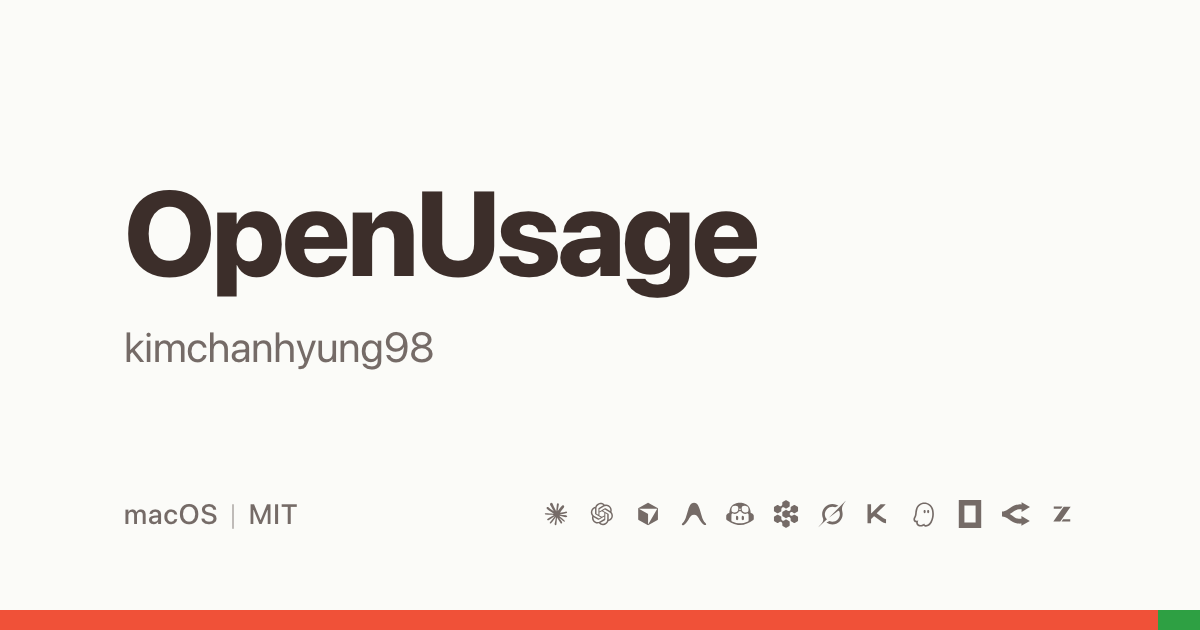
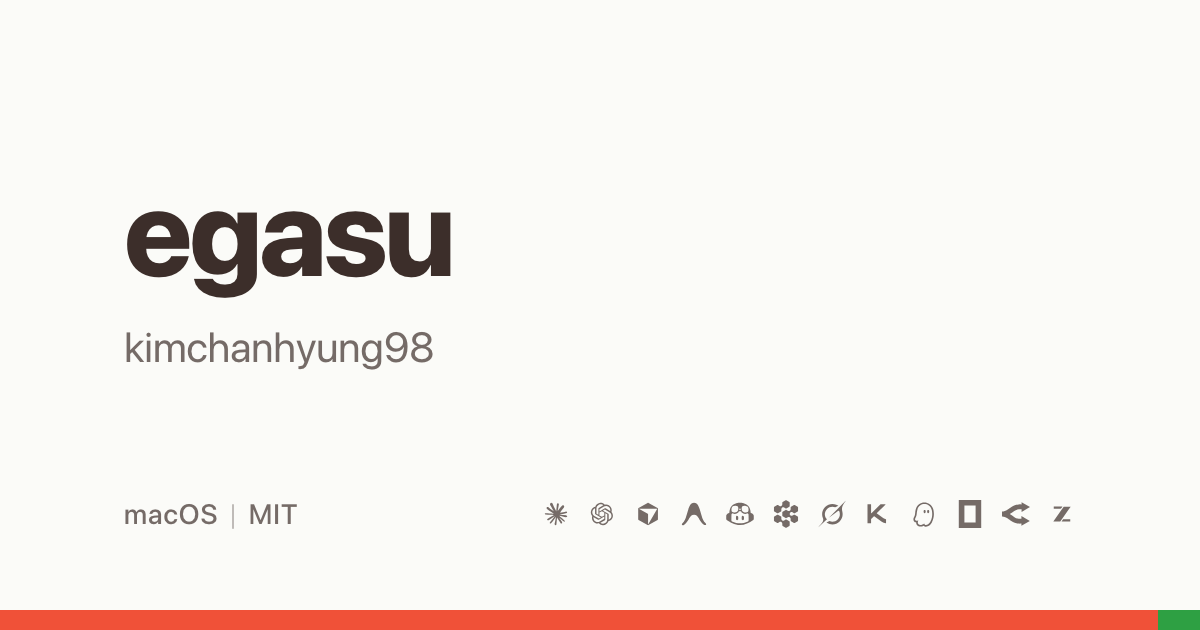
refactor(site): rebrand landing page and app preview

Changed region(s): [[0.0925, 0.3016, 0.6475, 0.4825]]

diff --git a/site/tests/smoke-feed.test.ts b/site/tests/smoke-feed.test.ts
@@ -9,16 +9,16 @@ import { once } from 'node:events';
 import { fileURLToPath } from 'node:url';
 
 test('deployment smoke requires both feeds to match the supplied deployment baseline', async (t) => {
-  const directory = mkdtempSync(join(tmpdir(), 'openusage-smoke-baseline-'));
+  const directory = mkdtempSync(join(tmpdir(), 'egasu-smoke-baseline-'));
   const appcast = `<rss xmlns:sparkle="http://www.andymatuschak.org/xml-namespaces/sparkle"><channel><item>
     <sparkle:version>992</sparkle:version><sparkle:shortVersionString>0.99.2</sparkle:shortVersionString>
-    <enclosure url="https://github.com/kimchanhyung98/openusage/releases/download/v0.99.2/OpenUsage.dmg" sparkle:edSignature="original-signature"/>
+    <enclosure url="https://github.com/kimchanhyung98/openusage/releases/download/v0.99.2/egasu.dmg" sparkle:edSignature="original-signature"/>
   </item></channel></rss>`;
   const pricing = '{"pricing":{"sample-model":{"input":1,"output":2}}}';
   writeFileSync(join(directory, 'appcast.xml'), appcast);
   writeFileSync(join(directory, 'pricing_supplement.json'), pricing);
   const routes = new Map([
-    ['/', ['text/html', '<title>OpenUsage</title><meta property="og:image" content="https://example.test/og.png">']],
+    ['/', ['text/html', '<title>egasu</title><meta property="og:image" content="https://example.test/og.png">']],
     ['/404.html', ['text/html', '<main data-page="404">Missing</main>']],
     ['/robots.txt', ['text/plain', 'Sitemap: https://example.test/sitemap.xml']],
     ['/sitemap.xml', ['application/xml', '<urlset/>']],
@@ -53,7 +53,7 @@ test('deployment smoke requires both feeds to match the supplied deployment base
     });
     await t.test('missing social preview metadata fails validation', async () => {
       const originalIndex = routes.get('/')!;
-      routes.set('/', ['text/html', '<title>OpenUsage</title>']);
+      routes.set('/', ['text/html', '<title>egasu</title>']);
       try {
         const result = await run(directory);
         assert.equal(result.status, 1, result.output);
@@ -97,9 +97,9 @@ test('smoke selects stable builds with the same channel, version, and URL bounda
   const script = readFileSync(new URL('../../script/site_smoke.sh', import.meta.url), 'utf8');
   const python = script.match(/<<'PY' \|\| fail=1\n([\s\S]*?)\nPY/)?.[1];
   assert.ok(python);
-  const directory = mkdtempSync(join(tmpdir(), 'openusage-smoke-feed-'));
+  const directory = mkdtempSync(join(tmpdir(), 'egasu-smoke-feed-'));
   const prefix = 'https://github.com/kimchanhyung98/openusage/releases/download/';
-  const item = (build: string, version: string, channel = '', suffix = `v${version}/OpenUsage.dmg`) => `<item>
+  const item = (build: string, version: string, channel = '', suffix = `v${version}/egasu.dmg`) => `<item>
     <sparkle:channel>${channel}</sparkle:channel><sparkle:version>${build}</sparkle:version>
     <sparkle:shortVersionString>${version}</sparkle:shortVersionString>
     <enclosure url="${prefix}${suffix}"/>

diff --git a/site/tests/assembly.test.ts b/site/tests/assembly.test.ts
@@ -6,7 +6,7 @@ import { join } from 'node:path';
 import { spawnSync } from 'node:child_process';
 
 function assemblyFixture() {
-  const temp = mkdtempSync(join(tmpdir(), 'openusage-assembly-test-'));
+  const temp = mkdtempSync(join(tmpdir(), 'egasu-assembly-test-'));
   const root = join(temp, 'checkout');
   const output = join(temp, 'output');
   const bin = join(temp, 'bin');
@@ -79,11 +79,24 @@ test('assembly replaces only marked output and resolves build placeholders', () 
   const fixture = assemblyFixture();
   try {
     assert.equal(fixture.run().status, 0);
-    assert.equal(readFileSync(join(fixture.output, '.openusage-site-output'), 'utf8'), '1\n');
+    assert.equal(readFileSync(join(fixture.output, '.egasu-site-output'), 'utf8'), '1\n');
     assert.match(readFileSync(join(fixture.output, 'index.html'), 'utf8'), /test-build/);
     writeFileSync(join(fixture.fixture, 'index.html'), '<title>Updated</title>__BUILD__');
     assert.equal(fixture.run().status, 0);
     assert.equal(readFileSync(join(fixture.output, 'index.html'), 'utf8'), '<title>Updated</title>test-build');
+  } finally { fixture.cleanup(); }
+});
+
+test('assembly replaces output created before the egasu rename', () => {
+  const fixture = assemblyFixture();
+  try {
+    mkdirSync(fixture.output);
+    writeFileSync(join(fixture.output, '.openusage-site-output'), '1\n');
+    writeFileSync(join(fixture.output, 'index.html'), '<title>Previous preview</title>');
+    const result = fixture.run();
+    assert.equal(result.status, 0, result.stderr || result.stdout);
+    assert.equal(readFileSync(join(fixture.output, '.egasu-site-output'), 'utf8'), '1\n');
+    assert.match(readFileSync(join(fixture.output, 'index.html'), 'utf8'), /test-build/);
   } finally { fixture.cleanup(); }
 });
 
@@ -124,7 +137,7 @@ test('assembly allows native provider sign-in copy while still rejecting site en
     writeFileSync(join(fixture.fixture, 'index.html'), copy);
     const first = fixture.run();
     assert.equal(first.status, 0, first.stderr || first.stdout);
-    writeFileSync(join(fixture.fixture, 'index.html'), '<title>The official OpenUsage site</title>');
+    writeFileSync(join(fixture.fixture, 'index.html'), '<title>The official egasu site</title>');
     assert.notEqual(fixture.run().status, 0);
     assert.equal(readFileSync(join(fixture.output, 'index.html'), 'utf8'), copy);
   } finally { fixture.cleanup(); }

diff --git a/site/tests/e2e/settings.spec.ts b/site/tests/e2e/settings.spec.ts
@@ -52,6 +52,43 @@ test('display settings and separate account cards survive a reload', async ({ pa
   await expect(app.locator('[data-card="claude-account-2"]')).toBeVisible();
 });
 
+test('settings saved before the egasu rename are restored and remain editable', async ({ page }) => {
+  await page.addInitScript(() => {
+    if (localStorage.getItem('openusage.site.preview.v1')) return;
+    localStorage.setItem('openusage.site.preview.v1', JSON.stringify({
+      preferences: { theme: 'Dark', showUsageAs: 'Left', usageCards: 'Single Card' },
+      activeAccounts: { claude: 'account-1' },
+      viewedAccounts: { claude: 'account-2' },
+    }));
+  });
+  await openHome(page);
+  const app = page.locator('[data-mock]');
+  await expect(app).toHaveAttribute('data-theme', 'dark');
+  await expect(app).toHaveAttribute('data-mode', 'left');
+  await expect(app.locator('[data-card="claude-account-2"]')).toBeVisible();
+  await expect(app.locator('[data-card="claude-account-1"]')).toBeHidden();
+  await openSettings(page);
+  await chooseSetting(page, 'Theme', 'Light');
+  await expect(app.getByRole('switch', { name: 'Claude Account 1', exact: true })).toHaveAttribute('aria-checked', 'true');
+  expect(await page.evaluate(() => JSON.parse(localStorage.getItem('openusage.site.preview.v1')!).preferences))
+    .toMatchObject({ theme: 'Light', showUsageAs: 'Left', usageCards: 'Single Card' });
+  await page.reload();
+  await expect(app).toHaveAttribute('data-theme', 'light');
+  await expect(app).toHaveAttribute('data-mode', 'left');
+  await expect(app.locator('[data-card="claude-account-2"]')).toBeVisible();
+});
+
+test('legacy meter and reset settings survive the egasu rename', async ({ page }) => {
+  await page.addInitScript(() => {
+    localStorage.setItem('openusage.site.meterStyle', 'left');
+    localStorage.setItem('openusage.site.resetDisplayMode', 'relative');
+  });
+  await openHome(page);
+  const app = page.locator('[data-mock]');
+  await expect(app).toHaveAttribute('data-mode', 'left');
+  await expect(app).toHaveAttribute('data-reset', 'relative');
+});
+
 test('invalid saved settings recover with defaults and a visible explanation', async ({ page }) => {
   await page.addInitScript(() => localStorage.setItem('openusage.site.preview.v1', '{broken'));
   await openHome(page);

diff --git a/site/tests/e2e/download.spec.ts b/site/tests/e2e/download.spec.ts
@@ -4,7 +4,7 @@ test('download links select the latest stable release and exclude other channels
   const feed = stableFeed.replace('</channel>', `<item>
     <sparkle:channel>nightly</sparkle:channel><sparkle:version>9999</sparkle:version>
     <sparkle:shortVersionString>0.99.9</sparkle:shortVersionString>
-    <enclosure url="https://github.com/kimchanhyung98/openusage/releases/download/nightly/OpenUsage.dmg" length="1048576"/>
+    <enclosure url="https://github.com/kimchanhyung98/openusage/releases/download/nightly/egasu.dmg" length="1048576"/>
   </item></channel>`);
   await page.route('**/appcast.xml', (route) => route.fulfill({ contentType: 'application/xml', body: feed }));
   await openHome(page);
@@ -18,7 +18,7 @@ test('download links select the latest stable release and exclude other channels
 for (const invalid of [
   { label: 'a fractional build', build: '9999.5', version: '0.99.9', url: downloadURL.replace('0.99.2', '0.99.9') },
   { label: 'a prerelease without a channel', build: '9999', version: '0.99.9-rc.1', url: downloadURL.replace('0.99.2', '0.99.9-rc.1') },
-  { label: 'a URL escaping the release directory', build: '9999', version: '0.99.9', url: downloadURL.replace('v0.99.2/OpenUsage.dmg', '../../../../other/repository') },
+  { label: 'a URL escaping the release directory', build: '9999', version: '0.99.9', url: downloadURL.replace('v0.99.2/egasu.dmg', '../../../../other/repository') },
 ]) {
   test(`download links ignore ${invalid.label}`, async ({ page }) => {
     const feed = stableFeed.replace('</channel>', `<item>
@@ -52,7 +52,7 @@ for (const failure of ['http', 'xml', 'body-timeout'] as const) {
       } else {
         await page.route('**/appcast.xml', (route) => route.fulfill({ status: failure === 'http' ? 503 : 200, contentType: 'application/xml', body: '<broken' }));
       }
-      const notice = page.waitForEvent('console', (message) => message.text().includes('OpenUsage release metadata unavailable'));
+      const notice = page.waitForEvent('console', (message) => message.text().includes('egasu release metadata unavailable'));
       await openHome(page);
       if (failure === 'body-timeout') await page.clock.fastForward(5001);
       await notice;

diff --git a/site/src/data/preview-translations.ts b/site/src/data/preview-translations.ts
@@ -93,17 +93,17 @@ export const previewTranslations: Record<string, { ko: string; ja: string }> = {
     ko: '새로운 공개 초기화 예측이나 초기화 예정 정보를 알립니다. 계정의 한도 초기화를 보장하지 않습니다.',
     ja: '新しい公開リセット予測やリセット予定を通知します。アカウントの上限リセットを保証するものではありません。',
   },
-  'Adds a global `openusage` command agents can use to monitor limits.': {
-    ko: '에이전트가 한도를 확인할 수 있도록 전역 `openusage` 명령을 추가합니다.',
-    ja: 'エージェントが上限を確認できるグローバルな`openusage`コマンドを追加します。',
+  'Adds a global `egasu` command agents can use to monitor limits.': {
+    ko: '에이전트가 한도를 확인할 수 있도록 전역 `egasu` 명령을 추가합니다.',
+    ja: 'エージェントが上限を確認できるグローバルな`egasu`コマンドを追加します。',
   },
   'Total Spend Period': { ko: '총 지출 기간', ja: '合計支出の期間' },
   'Switch Account': { ko: '계정 전환', ja: 'アカウントを切り替え' },
   'Account %d': { ko: '계정 %d', ja: 'アカウント%d' },
   '%@ Account %d': { ko: '%@ 계정 %d', ja: '%@ アカウント%d' },
-  'OpenUsage usage dashboard. Open Customize and Settings from Options.': {
-    ko: 'OpenUsage 사용량 대시보드. 옵션에서 커스터마이즈와 설정으로 이동.',
-    ja: 'OpenUsageの使用量ダッシュボード。オプションからカスタマイズと設定を開けます。',
+  'egasu usage dashboard. Open Customize and Settings from Options.': {
+    ko: 'egasu 사용량 대시보드. 옵션에서 커스터마이즈와 설정으로 이동.',
+    ja: 'egasuの使用量ダッシュボード。オプションからカスタマイズと設定を開けます。',
   },
   '%@ Account': { ko: '%@ 계정', ja: '%@アカウント' },
   '%@ Actions': { ko: '%@ 작업', ja: '%@の操作' },

diff --git a/site/src/data/settings.ts b/site/src/data/settings.ts
@@ -110,9 +110,9 @@ export const settingGroups: SettingGroup[] = [
     id: 'privacy', title: 'Privacy',
     rows: [
       { id: 'hideFromScreenShare', label: 'Hide From Screen Share', control: { kind: 'toggle', on: true },
-        note: 'While your screen is shared or recorded, the menu bar shows “OpenUsage” instead of your usage.' },
+        note: 'While your screen is shared or recorded, the menu bar shows “egasu” instead of your usage.' },
       { id: 'shareAnonymousUsage', label: 'Share Anonymous Usage', control: { kind: 'toggle', on: false },
-        note: 'Shares anonymous usage counts and error types to help improve OpenUsage. No account details, credentials, or usage values are sent.' },
+        note: 'Shares anonymous usage counts and error types to help improve egasu. No account details, credentials, or usage values are sent.' },
     ],
   },
   {
@@ -128,7 +128,7 @@ export const settingGroups: SettingGroup[] = [
     rows: [
       { id: 'terminalHelper', label: 'Terminal Helper',
         control: { kind: 'action', label: 'Install…', message: 'Install the terminal helper from the Mac app.' },
-        note: 'Adds a global `openusage` command agents can use to monitor limits.' },
+        note: 'Adds a global `egasu` command agents can use to monitor limits.' },
     ],
   },
   {

diff --git a/site/scripts/og.html b/site/scripts/og.html
@@ -1,13 +1,13 @@
 <!doctype html>
 <!-- OG 이미지 원본. public/og.png는 이 파일을 1200x630으로 캡처한 결과.
-     GitHub 저장소 소셜 프리뷰 스타일(OpenUsage + kimchanhyung98 + macOS | MIT + 지원 프로바이더 아이콘).
+     GitHub 저장소 소셜 프리뷰 스타일(egasu + kimchanhyung98 + macOS | MIT + 지원 프로바이더 아이콘).
      배경색: 사이트 테마 배경(#fbfbf8) 및 잉크(#3c2e2a) 토큰 적용.
      재생성: 브라우저나 헤드리스 캡처 도구로 이 파일을 열고 뷰포트 1200x630, DPR 1로 스크린샷.
      provider 마크 path는 Sources/Egasu/Resources/ProviderIcons/의 값을 그대로 붙여 넣은 것. -->
 <html lang="ko">
 <head>
 <meta charset="utf-8">
-<title>OpenUsage OG</title>
+<title>egasu OG</title>
 <style>
 * { margin: 0; padding: 0; box-sizing: border-box; }
 body {
@@ -103,7 +103,7 @@ body {
 </head>
 <body>
 <div class="content">
-  <h1 class="title">OpenUsage</h1>
+  <h1 class="title">egasu</h1>
   <div class="author">kimchanhyung98</div>
 </div>
 

diff --git a/site/src/utils/sprite.ts b/site/src/utils/sprite.ts
@@ -1,7 +1,7 @@
 // 앱 리소스 SVG를 인라인 sprite <symbol>로 변환.
 // 출처는 앱이 쓰는 파일 그 자체 — 사본을 두지 않아 마크가 앱과 어긋날 수 없음.
 // fill 속성은 none만 남기고 제거해 currentColor로 통일.
-// openusage.svg(앱 아이콘 글리프)는 상표 결정 전까지 sprite에 넣지 않음(providers.ts에 없음).
+// egasu.svg(앱 아이콘 글리프)는 상표 결정 전까지 sprite에 넣지 않음(providers.ts에 없음).
 import { providers } from '../data/providers';
 
 const files = import.meta.glob('../../../Sources/Egasu/Resources/ProviderIcons/*.svg', {

diff --git a/site/src/scripts/tour.ts b/site/src/scripts/tour.ts
@@ -224,7 +224,7 @@ export function initFeatureTour(): void {
     running = controller;
     void animate(selected, controller.signal).catch((error: unknown) => {
       if (error instanceof DOMException && error.name === 'AbortError') return;
-      console.error('OpenUsage feature preview failed', error);
+      console.error('egasu feature preview failed', error);
       section.dataset.tourError = 'true';
       announcement.textContent = '미리보기를 불러오지 못했습니다. 새로고침해 주세요.';
     }).finally(() => { if (running === controller) running = undefined; });

diff --git a/site/tests/e2e/fixtures.ts b/site/tests/e2e/fixtures.ts
@@ -1,6 +1,6 @@
 import { test as base, expect, type Page } from '@playwright/test';
 
-export const downloadURL = 'https://github.com/kimchanhyung98/openusage/releases/download/v0.99.2/OpenUsage.dmg';
+export const downloadURL = 'https://github.com/kimchanhyung98/openusage/releases/download/v0.99.2/egasu.dmg';
 export const stableFeed = `<?xml version="1.0"?>
 <rss xmlns:sparkle="http://www.andymatuschak.org/xml-namespaces/sparkle"><channel><item>
   <sparkle:version>992</sparkle:version><sparkle:shortVersionString>0.99.2</sparkle:shortVersionString>

diff --git a/site/src/scripts/settings.ts b/site/src/scripts/settings.ts
@@ -4,6 +4,7 @@ import { languageTags } from '../data/settings';
 import { closeMenu } from './menus';
 import { applyPreviewLanguage, localizePreview } from './localization';
 
+// 이름 변경 전 미리보기 설정을 같은 출처에서 계속 사용.
 const STORAGE_KEY = 'openusage.site.preview.v1';
 let state = initialPreviewState();
 let render = (): void => {};
